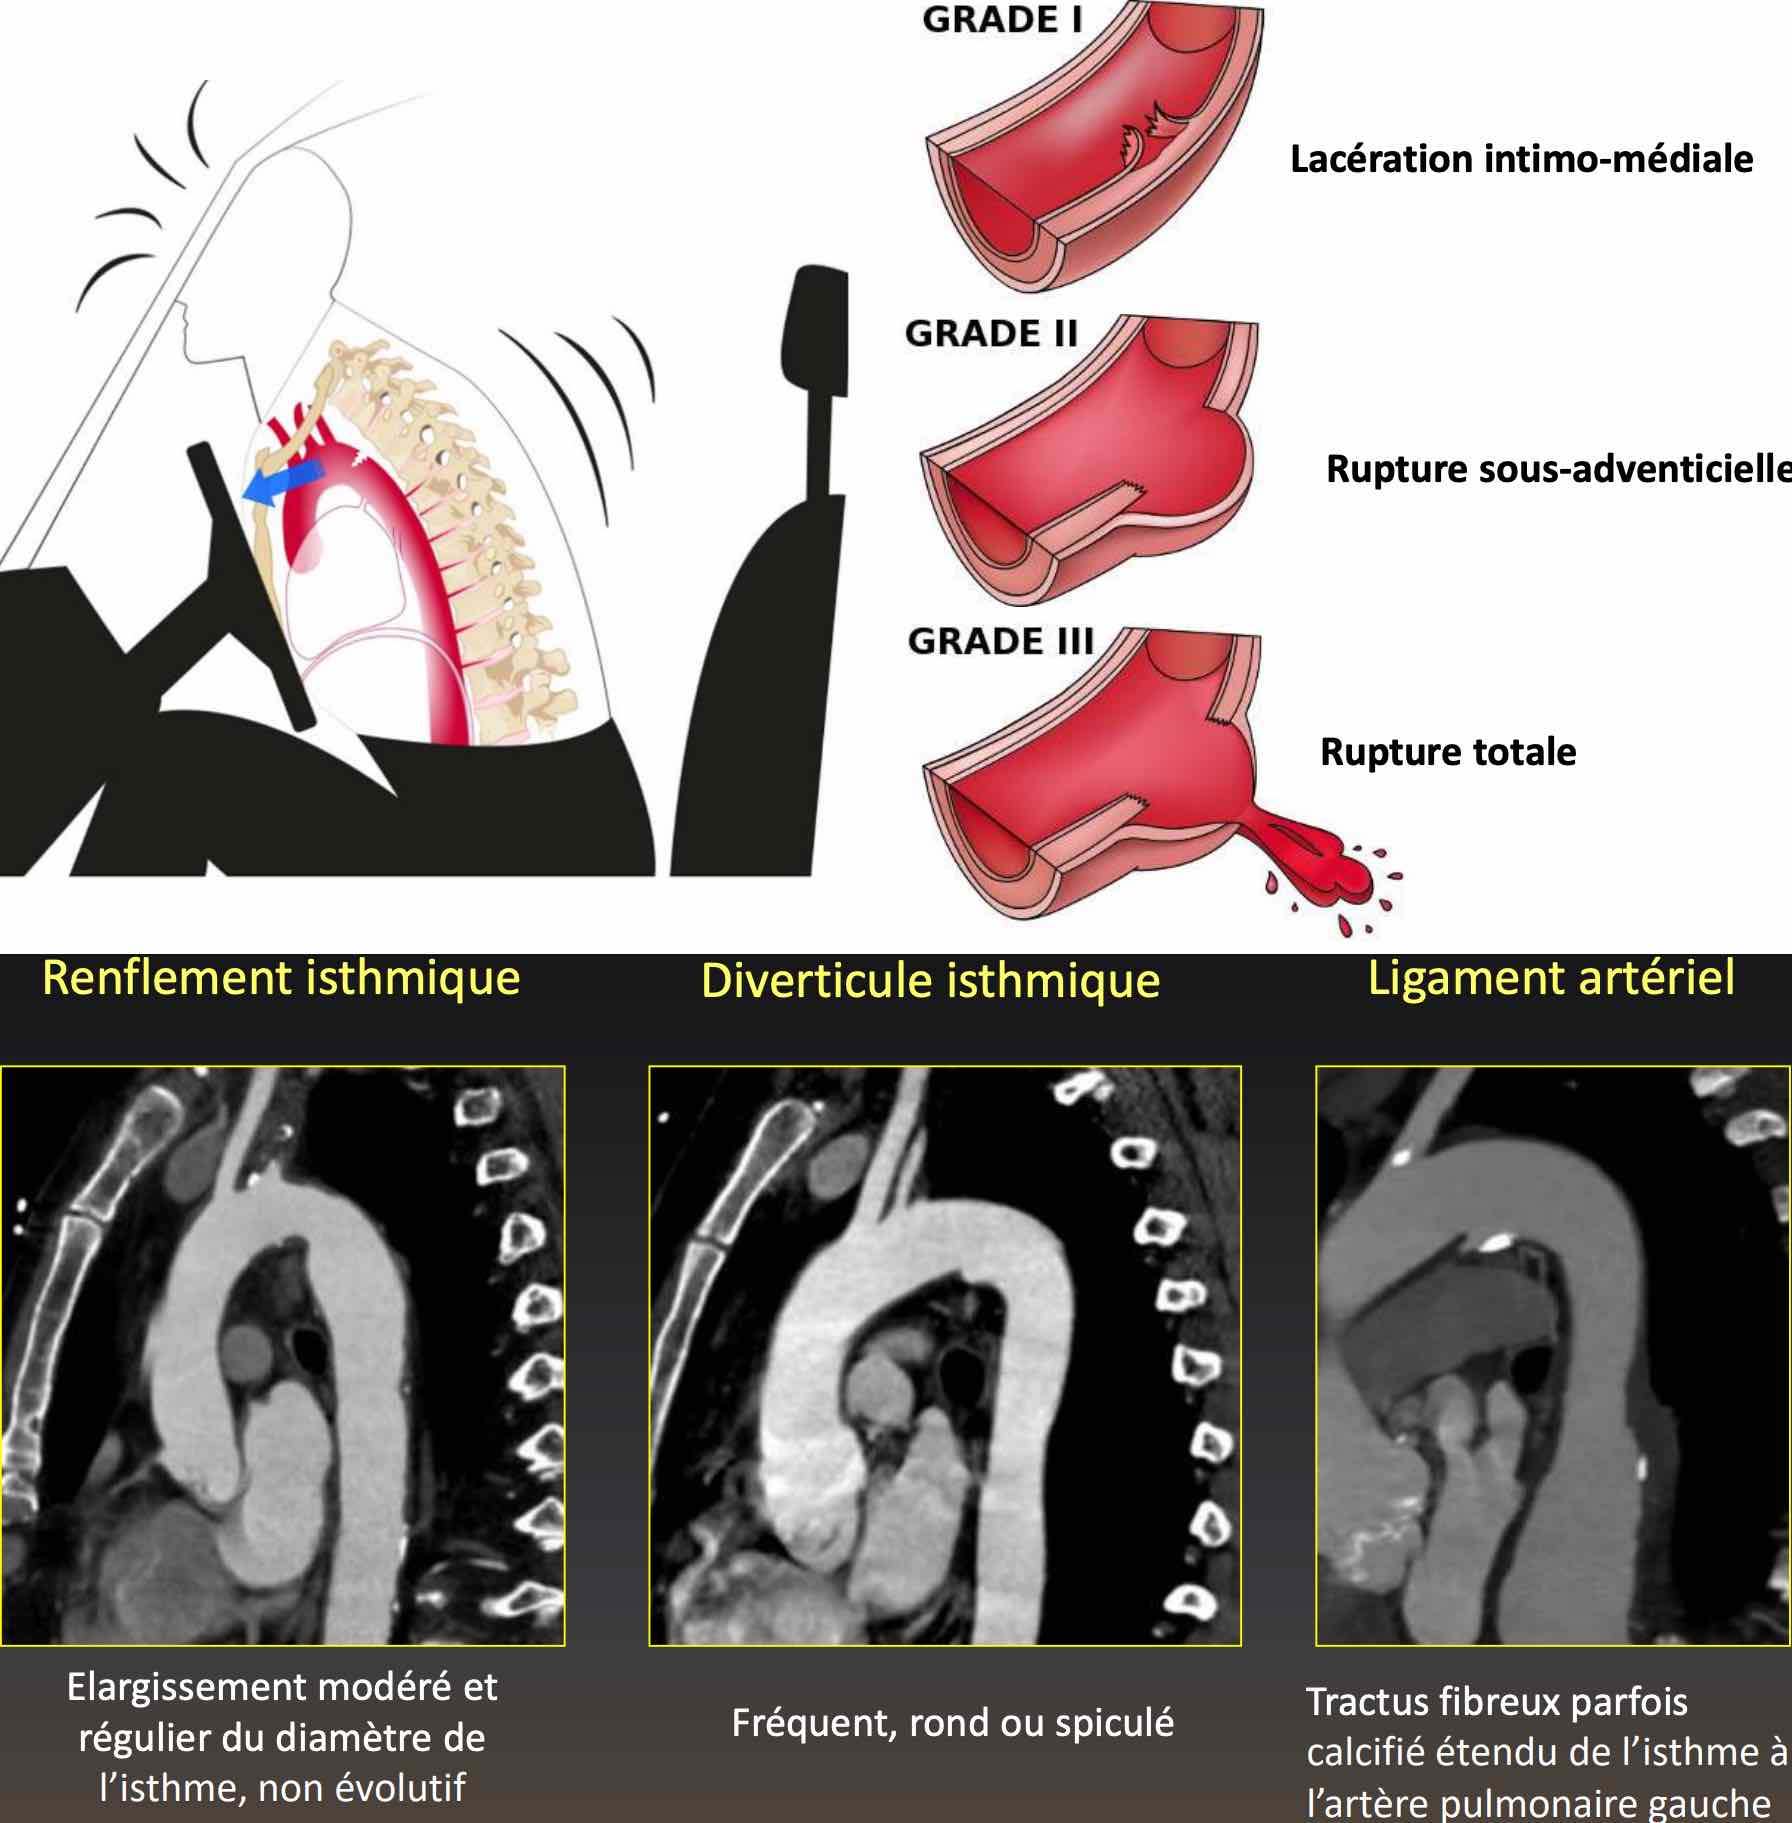
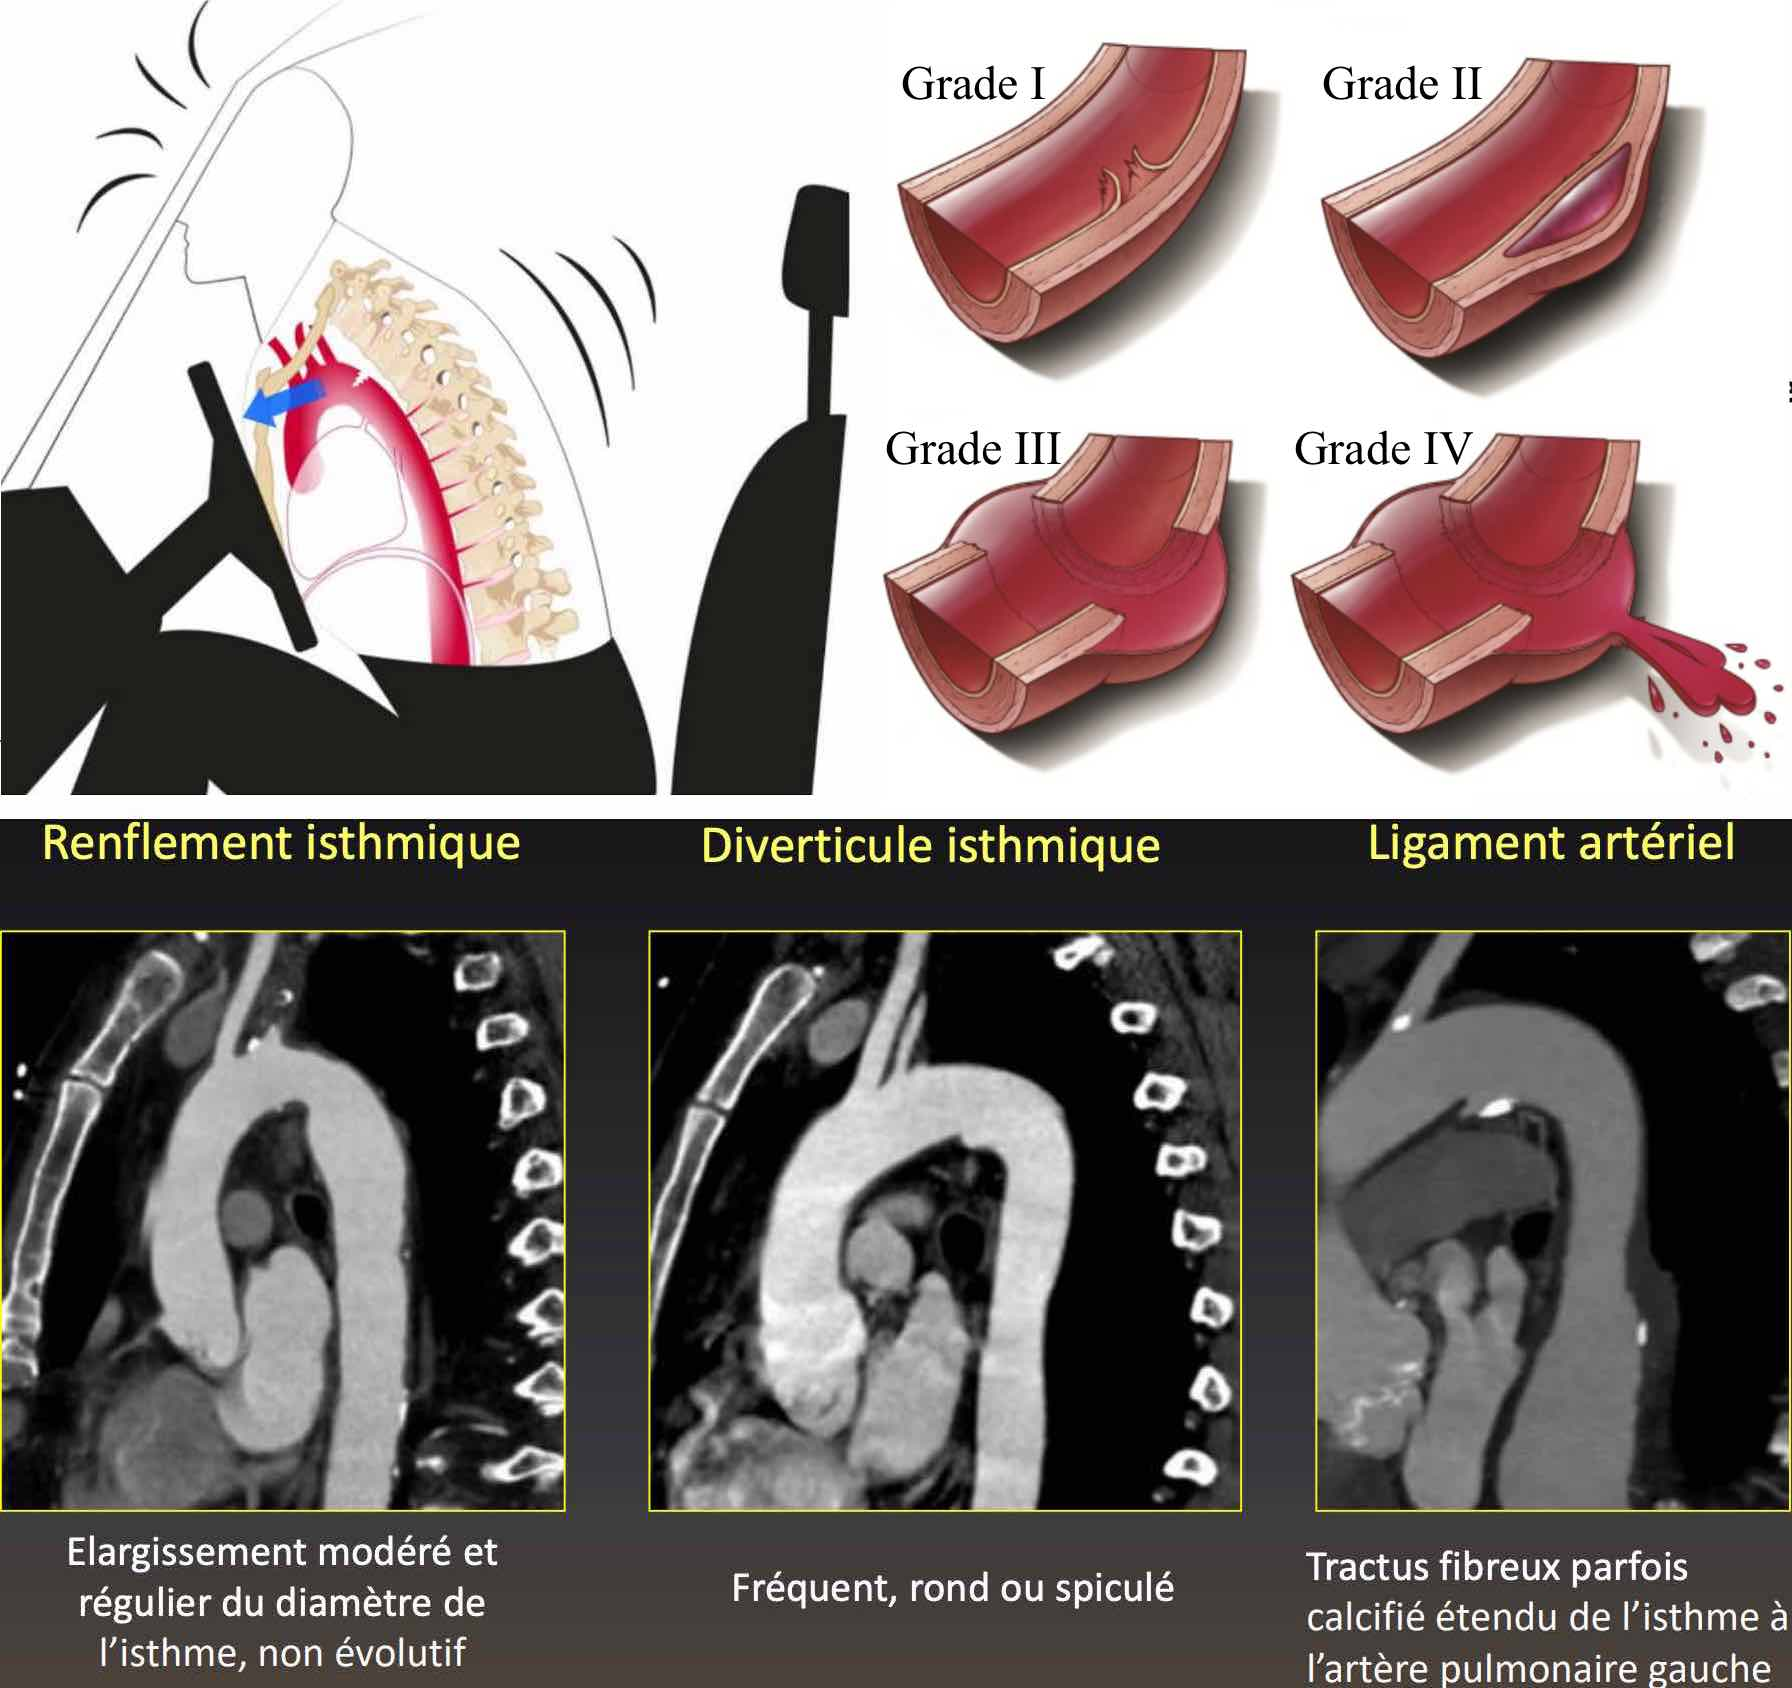
SAA

diff --git a/docs/urg/thorax.md b/docs/urg/thorax.md
@@ -1,23 +1,60 @@
-# EP, aorte et hémoptysie
+# Urgences thoraciques
 
-<figure markdown="span">
-    [CR **EP**](https://www.radiologie.fr/sites/www.radiologie.fr/files/medias/documents/CR-Embolie.pdf){:target="_blank"}
-</figure>
+=== "SAA"
 
-!!! tip "EP [femme enceinte](https://onclepaul.net/wp-content/uploads/2011/07/EP-chez-la-femme-enceinte-CS-2013+++1.pdf){:target="_blank"} ([risques](https://onclepaul.fr/wp-content/uploads/2011/07/La-femme-enceinte-en-imagerie-pire-angoisse-du-radiologue-New-JFR-2020.pdf){:target="_blank"} de l'irradiation pour le fœtus)"
-    - 100 kV
-    - Apnée simple
-    - 120 cc ≥ 4,5 cc/s de Ioméron 400
-    - Couper apex et culs-de-sac pleuraux
+    <figure markdown="span">
+        [dissection aortique](https://radiopaedia.org/articles/aortic-dissection){:target="_blank"}  
+        **TAP sans**, **CTAP artériel**, AP veineux **+/- tardif**  
+        +/- synchronisation ECG pour l'aorte ascendante
+    </figure>
 
-!!! info "HTP"
-    - HTP = AP > Ao (> 30 mm), dilatation et hypertrophie VD (> 4 mm)
-    - **TEC** = thrombi marginés, synéchies, hypervasc. systémique, perfusion mosaïque
+    !!! tip "CR"
+        - **portes d'entrée** (+/- de réentrée) et de sortie
+        - **extension** et **malperfusion**/ischémie viscérale (tps tardif)
+        - diamètre de l'aorte (anévrysme sous-jacent ?)
+        - perméabilité faux-chenal (aiguë < J15 < subaiguë < M3 < chronique)
 
-<figure markdown="span">
-    </br>
-    [Syndrome aortique aigu](https://onclepaul.net/wp-content/uploads/2011/07/Syndrome-aortique-aigu.pdf){:target="_blank"}  
-    TAP sans, TAP artériel +/- synchronisation ECG, AP veineux  
-    </br></br>
-    ![](assets/hemo.jpg){width="720"}
-</figure>
+    !!! danger "Type **A** ++"
+        - extension à l'anneau aortique
+        - dissection coronaires/TSA
+        - hémopéricarde
+
+    !!! warning "Type **B**"
+        - porte d'entrée svt au pied de l'ASC gauche
+        - sinon préciser distance ASC - porte d'entrée
+
+    !!! warning "Hématome intra-mural"
+        - 25% des syndromes aortiques = Ao descendante dans 2/3
+        - => 40% dissection, 30% rupture, 20% régression
+
+    !!! warning "Ulcère athéromateux pénétrant"
+        - 90% Ao descendante
+        - hématome, dissection, perforation
+
+    !!! danger "Artère d'**Adamkiewicz**"
+        - 80% T8-L1 gauche
+        - paraplégie
+
+
+=== "EP"
+
+    <figure markdown="span">
+        [CR **EP**](https://www.radiologie.fr/sites/www.radiologie.fr/files/medias/documents/CR-Embolie.pdf){:target="_blank"}
+    </figure>
+
+    !!! tip "EP [femme enceinte](https://onclepaul.net/wp-content/uploads/2011/07/EP-chez-la-femme-enceinte-CS-2013+++1.pdf){:target="_blank"} ([risques](https://onclepaul.fr/wp-content/uploads/2011/07/La-femme-enceinte-en-imagerie-pire-angoisse-du-radiologue-New-JFR-2020.pdf){:target="_blank"} de l'irradiation pour le fœtus)"
+        - 100 kV
+        - Apnée simple
+        - 120 cc ≥ 4,5 cc/s de Ioméron 400
+        - Couper apex et culs-de-sac pleuraux
+
+    !!! info "HTP"
+        - HTP = AP > Ao (> 30 mm), dilatation et hypertrophie VD (> 4 mm)
+        - **TEC** = thrombi marginés, synéchies, hypervasc. systémique, perfusion mosaïque
+
+
+=== "HEMOPTYSIE"
+
+    <figure markdown="span">
+        ![](assets/hemo.jpg){width="720"}
+    </figure>

diff --git a/docs/thorax/cavites.md b/docs/thorax/cavites.md
@@ -8,8 +8,9 @@
 </br>
 
 <figure markdown="span">
-    ![](assets/kystes.jpg){width="750"}
-    <figcaption>DD = HX, LIP, amylose, maladie de dépôts de chaînes légères</figcaption>
+    ![](assets/kystes.jpg){width="750"}  
+    [![](assets/kystes2.jpg){width="450"}](https://radiopaedia.org/articles/cystic-lung-disease-2){:target="_blank"}
+    <figcaption>DD rares = amylose, maladie de dépôts de chaînes légères</figcaption>
 </figure>
 
 !!! tip "[AEF](https://www.clubthorax.com/web/fiches/file/PID_AEF.pdf){:target="_blank"} = DD du ry de miel"

diff --git a/docs/urg/AVP.md b/docs/urg/AVP.md
@@ -26,6 +26,7 @@ Pas de lésion post-traumatique.
 ```
 === "thorax"
     <figure markdown="span">
+        I lacération intimale < II hématome < III pseudo-anévrysme < IV rupture
         ![](assets/Ao.jpg){width=620"}  
         </br>
         ![](assets/pulm.jpg){width=350"}
